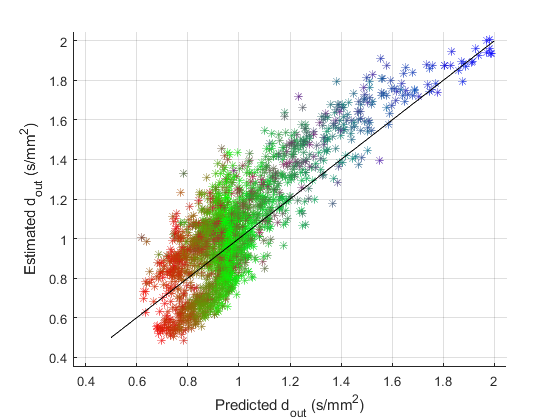
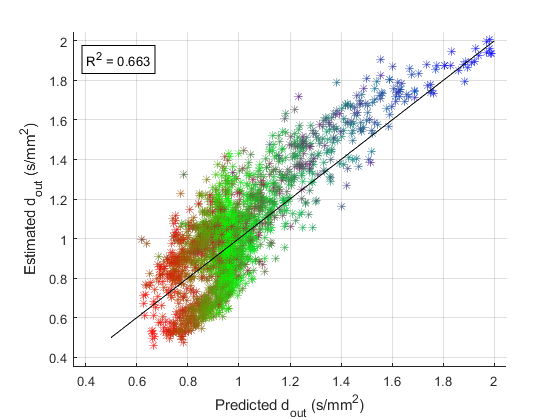
Update.

diff --git a/Scripts/Paper Figures/plot_modelling_results.m b/Scripts/Paper Figures/plot_modelling_results.m
@@ -179,6 +179,18 @@ ylim([-0.05,0.6])
 xlabel('Predicted sphere fraction')
 ylabel('Estimated sphere fraction')
 
+% R2 value
+SSres = sum( (pred_params(1,:) - fit_params(1,:)).^2 );
+SStot = length(fit_params(1,:))*var(fit_params(1,:));
+R2 = 1-SSres/SStot;
+
+text(0.03, 0.945, ['R^2 = ' sprintf( '%0.3f', R2) ], ...
+    'Units', 'normalized', ...
+    'VerticalAlignment', 'top', ...
+    'HorizontalAlignment', 'left', ...
+    'BackgroundColor', 'white', ...
+    'EdgeColor', 'black');  % Optional border
+
 
 % figure
 % scatter(pred_params(2,:), fit_params(2,:),  '*', MarkerEdgeAlpha=0.4, CData=new_composition)
@@ -202,6 +214,18 @@ xlim([0.35,2.05])
 ylim([0.35,2.05])
 xlabel('Predicted d_{out} (s/mm^2)')
 ylabel('Estimated d_{out} (s/mm^2)')
+
+% R2 value
+SSres = sum( (pred_params(4,:) - fit_params(4,:)).^2 );
+SStot = length(fit_params(4,:))*var(fit_params(4,:));
+R2 = 1-SSres/SStot;
+
+text(0.03, 0.945, ['R^2 = ' sprintf( '%0.3f', R2) ], ...
+    'Units', 'normalized', ...
+    'VerticalAlignment', 'top', ...
+    'HorizontalAlignment', 'left', ...
+    'BackgroundColor', 'white', ...
+    'EdgeColor', 'black');  % Optional border
 
 
 

diff --git a/Scripts/Modelling/run_modelling.m b/Scripts/Modelling/run_modelling.m
@@ -9,7 +9,7 @@ projectfolder = pwd;
 SampleName = '20250524_UQ9'; % '20250224_UQ4', '20250407_UQ5', '20250414_UQ6', '20250522_UQ7', '20250523_UQ8', '20250524_UQ9'
 
 % Series descriptions
-SeriesDescriptions = {...
+SeriesDescriptions = {...20250523_UQ8
     % All DELTA
     'SE_b0_SPOIL5% (DS)',...
     'STEAM_ShortDELTA_15 (DS)',...
@@ -113,7 +113,7 @@ switch modeltype
 
         fIC = 0.5; fIClb = 0; fICub = 1;
         R = 6.5; Rlb = 6.4; Rub = 6.6;
-        dIC = 0.5; dIClb = 0.5; dICub = 0.5;
+        dIC = 0.55; dIClb = 0.54; dICub = 0.56;
         dEES = 1; dEESlb = 0.1; dEESub = 3;
         S0 = 1; S0lb = 0.9; S0ub = 1.1;
 

diff --git a/Scripts/Paper Figures/plot_error_maps.m b/Scripts/Paper Figures/plot_error_maps.m
@@ -55,8 +55,7 @@ switch multisample
 end
 
 COMPOSITION = load(fullfile(projectfolder, 'Outputs', 'Masks', SampleName, 'SE_b0_SPOIL5% (DS)', 'COMPOSITION.mat')).COMPOSITION;
-        
-
+       
 
 %% Calculate predicted normalised image and error
 
